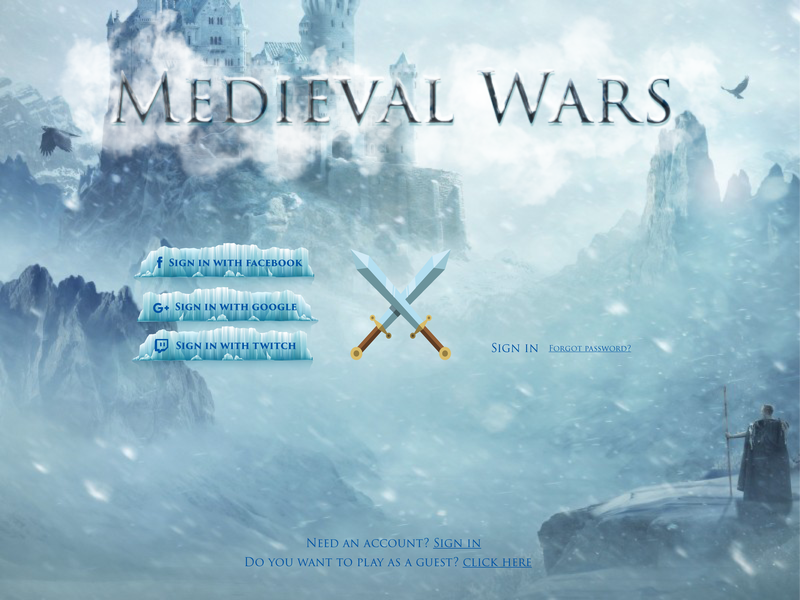
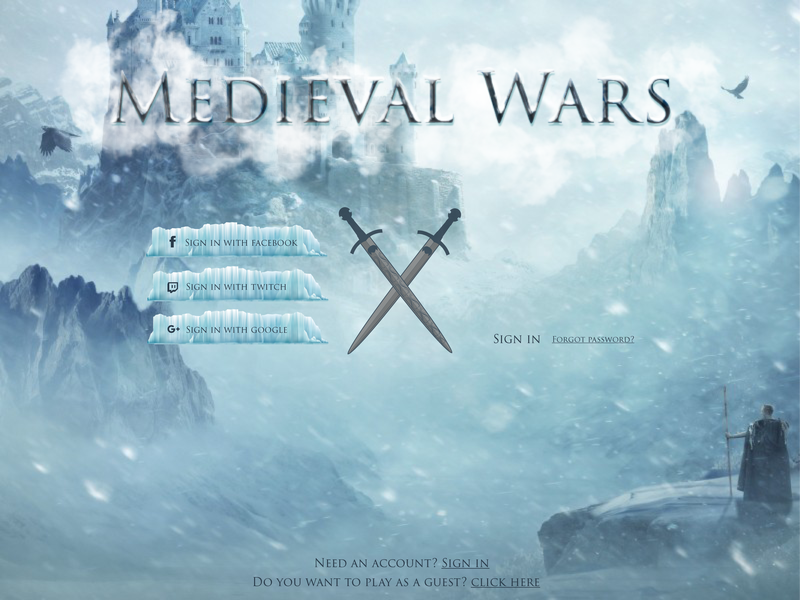
bugFixes + powerups

Changed region(s): [[0.1562, 0.33, 0.5938, 0.63], [0.3125, 0.9, 0.6875, 0.99], [0.625, 0.54, 0.7812, 0.6]]

diff --git a/src/application/Styling/application.css b/src/application/Styling/application.css
@@ -33,6 +33,18 @@
     -fx-background-position: center center;
 }
 
+#settings{
+    -fx-background-color: #38383838;
+    -fx-background-image: url("../../Images/screens/rsz_settingsscreen.png");
+    -fx-background-position: center center;
+}
+
+#signUp{
+    -fx-background-color: #38383838;
+    -fx-background-image: url("../../Images/screens/rsz_signupscreen.png");
+    -fx-background-position: center center;
+}
+
 
 
 

diff --git a/src/application/Controllers/SettingsController.java b/src/application/Controllers/SettingsController.java
@@ -6,25 +6,9 @@ import com.jfoenix.controls.JFXToggleButton;
 import javafx.fxml.FXML;
 
 public class SettingsController {
-    public JFXToggleButton music, autoSave;
     private Engine instance = Engine.getInstance();
 
 
-    @FXML
-    public void initialize() {
-        music.setSelected(instance.getCurrentUser().getSettings().isMusic());
-        autoSave.setSelected(instance.getCurrentUser().getSettings().isAutoSave());
-    }
-
-    @FXML
-    public void setMusic() {
-        instance.getCurrentUser().getSettings().setMusic(music.isSelected());
-    }
-
-    @FXML
-    public void setAutoSave() {
-        instance.getCurrentUser().getSettings().setAutoSave(autoSave.isSelected());
-    }
 
 
     @FXML

diff --git a/src/application/Client.java b/src/application/Client.java
@@ -73,7 +73,7 @@ public class Client extends Application {
         primaryStage.setScene(scene);
         primaryStage.setFullScreen(false);
         primaryStage.show();
-        loadScreen("loginScreen");
+        loadScreen("SignUpScreen");
     }
 
 
